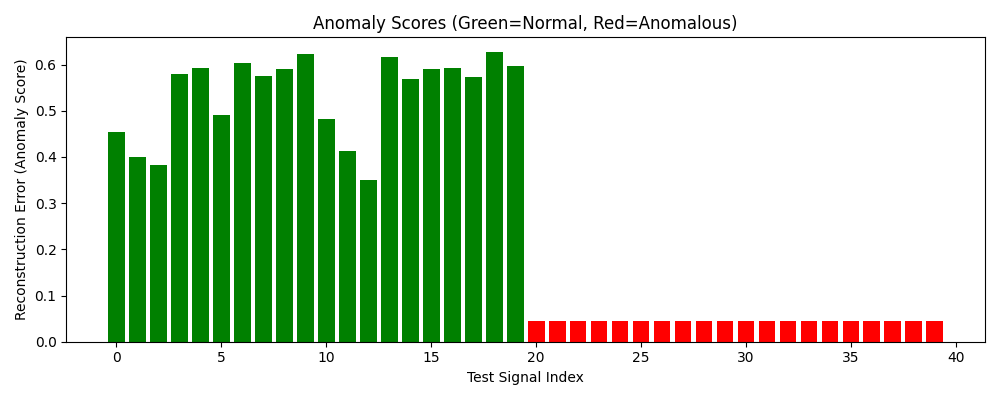
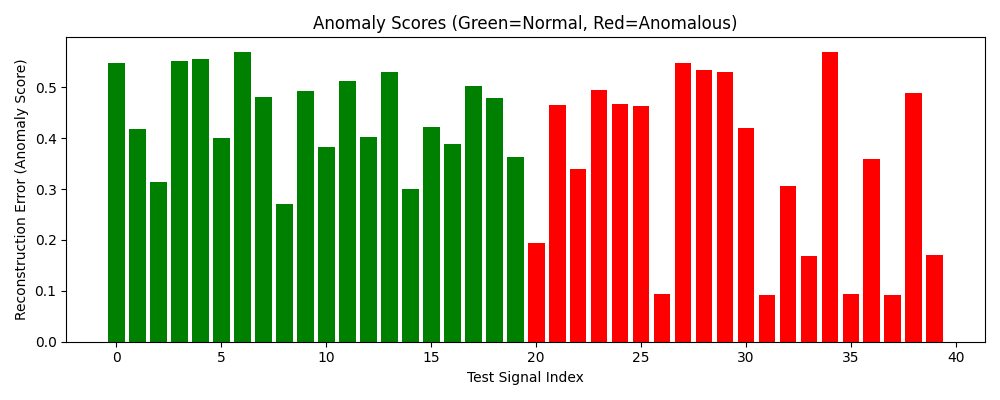
testing threshold values and evaluating metrics to determine optimal threshold.

diff --git a/Code/train.py b/Code/train.py
@@ -10,26 +10,72 @@ from encoding import rate_encode
 from model import SimpleSNN
 
 # auto create a results folder
-RESULTS_DIR = "results"
+# RESULTS_DIR = "results"
+# os.makedirs(RESULTS_DIR, exist_ok=True)
+
+threshold_val = 0.08  # change per experiment
+
+RESULTS_DIR = f"results/threshold_{str(threshold_val).replace('.', '')}"
 os.makedirs(RESULTS_DIR, exist_ok=True)
 
 # synthetic data generation (1 vs. multiple)
-def generate_signal(length=500, amplitude=1.0, frequency=1.0, phase=0.0, anomaly=False):
+def generate_signal(length=500, amplitude=1.0, frequency=1.0, phase=0.0,
+                    anomaly=False, anomaly_type=None):
     t = np.linspace(0, 10, length)
     signal = amplitude * np.sin(2 * np.pi * frequency * t + phase)
+
     if anomaly:
-        start, end = length // 3, length // 2
-        signal[start:end] += np.random.uniform(1.5, 2.5)
+        if anomaly_type is None:
+            anomaly_type = np.random.choice([
+                "amplitude_burst",
+                "frequency_shift",
+                "phase_shift",
+                "noise_burst",
+                "dropout"
+            ])
+
+        start = np.random.randint(length // 4, length // 2)
+        seg_len = np.random.randint(length // 12, length // 6)
+        end = min(length, start + seg_len)
+
+        if anomaly_type == "amplitude_burst":
+            signal[start:end] += np.random.uniform(1.0, 2.0)
+
+        elif anomaly_type == "frequency_shift":
+            new_freq = np.random.uniform(1.5, 2.5)
+            signal[start:end] = amplitude * np.sin(
+                2 * np.pi * new_freq * t[start:end] + phase
+            )
+
+        elif anomaly_type == "phase_shift":
+            signal[start:end] = amplitude * np.sin(
+                2 * np.pi * frequency * t[start:end] + phase + np.pi / 2
+            )
+
+        elif anomaly_type == "noise_burst":
+            signal[start:end] += np.random.normal(0, 0.8, end - start)
+
+        elif anomaly_type == "dropout":
+            signal[start:end] = 0.0
+
     return signal
+
 
 def generate_signals(num_signals=50, anomaly=False):
     signals = []
     for _ in range(num_signals):
         amp = np.random.uniform(0.8, 1.2)
         freq = np.random.uniform(0.8, 1.2)
-        phase = np.random.uniform(0, np.pi/4)
-        signal = generate_signal(amplitude=amp, frequency=freq, phase=phase, anomaly=anomaly)
+        phase = np.random.uniform(0, np.pi / 4)
+
+        signal = generate_signal(
+            amplitude=amp,
+            frequency=freq,
+            phase=phase,
+            anomaly=anomaly
+        )
         signals.append(signal)
+
     return signals
 
 # training loop
@@ -42,7 +88,7 @@ def train_model(model, optimizer, normal_signals, epochs=50, print_every=5):
     processed_signals = []
     for sig in normal_signals:
         sig_proc = preprocess(sig)
-        spikes = rate_encode(sig_proc, threshold=0.05)
+        spikes = rate_encode(sig_proc, threshold_val)
         tensor_sig = to_tensor(spikes)
         processed_signals.append(tensor_sig)
 
@@ -69,7 +115,7 @@ def compute_anomaly_scores(model, signals, labels=None):
     processed_signals = []
     for sig in signals:
         sig_proc = preprocess(sig)
-        spikes = rate_encode(sig_proc, threshold=0.05)
+        spikes = rate_encode(sig_proc, threshold_val)
         tensor_sig = to_tensor(spikes)
         processed_signals.append(tensor_sig)
 
@@ -120,7 +166,7 @@ if __name__ == "__main__":
     scores, x_test, output_test = compute_anomaly_scores(model, test_signals, labels)
 
     # simple thresholding for anomaly detection
-    threshold = np.mean(scores[:num_test]) - 2*np.std(scores[:num_test])
+    threshold = np.mean(scores[:num_test]) - 1*np.std(scores[:num_test])
     print(f"Anomaly detection threshold (lower than normal) = {threshold:.4f}\n")
 
     for i, score in enumerate(scores):
@@ -129,10 +175,43 @@ if __name__ == "__main__":
         else:
             print(f"Signal {i:02d} considered NORMAL (score = {score:.4f})")
 
+    preds = [1 if score < threshold else 0 for score in scores]
+
+    # printing evaluation metrics (fp, tp, etc.)
+    tp = sum((p == 1 and y == 1) for p, y in zip(preds, labels))
+    tn = sum((p == 0 and y == 0) for p, y in zip(preds, labels))
+    fp = sum((p == 1 and y == 0) for p, y in zip(preds, labels))
+    fn = sum((p == 0 and y == 1) for p, y in zip(preds, labels))
+
+    accuracy = (tp + tn) / len(labels)
+    precision = tp / (tp + fp) if (tp + fp) > 0 else 0.0
+    recall = tp / (tp + fn) if (tp + fn) > 0 else 0.0
+    f1 = 2 * precision * recall / (precision + recall) if (precision + recall) > 0 else 0.0
+
+    print("\nEvaluation Metrics:")
+    print(f"TP: {tp}, TN: {tn}, FP: {fp}, FN: {fn}")
+    print(f"Accuracy:  {accuracy:.4f}")
+    print(f"Precision: {precision:.4f}")
+    print(f"Recall:    {recall:.4f}")
+    print(f"F1 Score:  {f1:.4f}")
+
+    with open(os.path.join(RESULTS_DIR, "metrics.txt"), "w") as f:
+        f.write(f"Encoding threshold: {threshold_val}\n")
+        f.write(f"Anomaly decision threshold: {threshold:.4f}\n")
+        f.write(f"TP: {tp}, TN: {tn}, FP: {fp}, FN: {fn}\n")
+        f.write(f"Accuracy: {accuracy:.4f}\n")
+        f.write(f"Precision: {precision:.4f}\n")
+        f.write(f"Recall: {recall:.4f}\n")
+        f.write(f"F1 Score: {f1:.4f}\n")
+
+    np.save(os.path.join(RESULTS_DIR, "scores.npy"), scores)
+    np.save(os.path.join(RESULTS_DIR, "preds.npy"), np.array(preds))
+    np.save(os.path.join(RESULTS_DIR, "losses.npy"), np.array(all_losses))
+
     # plot example signal vs reconstruction (first anomalous signal)
     idx_example = num_test  # first anomalous
     plt.figure(figsize=(12, 4))
-    plt.plot(x_test[:, idx_example, :].numpy(), label='Encoded Singal (Anomalous)')
+    plt.plot(x_test[:, idx_example, :].numpy(), label='Encoded Signal (Anomalous)')
     plt.plot(output_test[:, idx_example, :].numpy(), label='Reconstructed Signal')
     plt.title('SNN Reconstruction of Anomalous Signal')
     plt.legend()